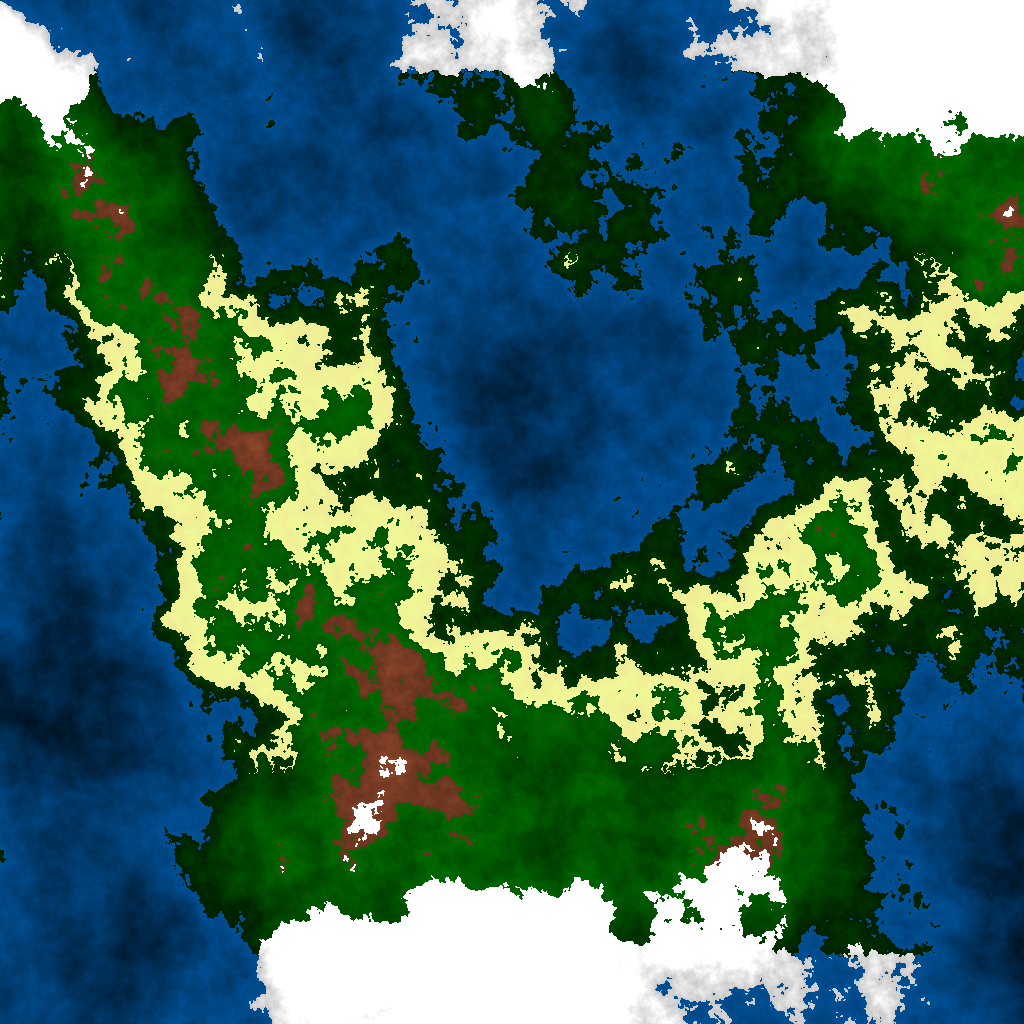
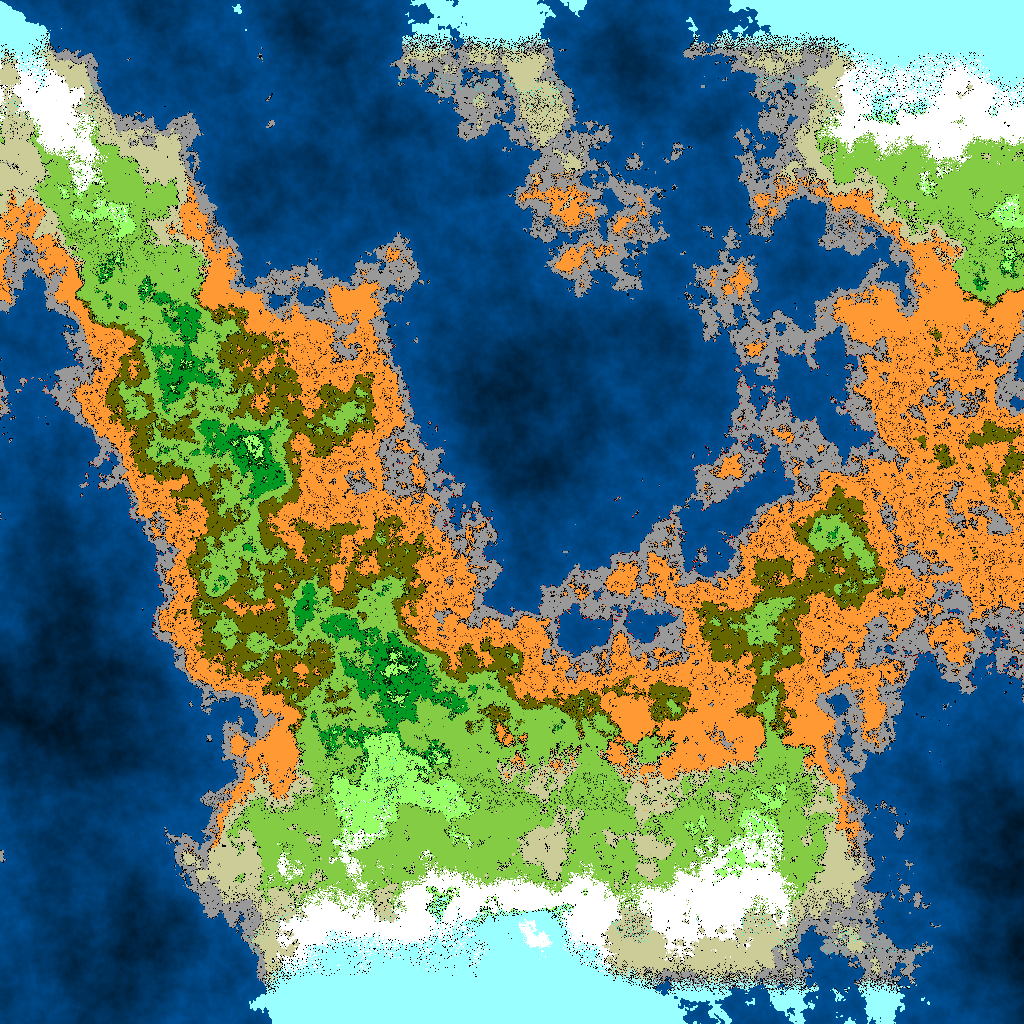
Added in Voronoi noise generation

diff --git a/src/Initialisation/Main.java b/src/Initialisation/Main.java
@@ -1,26 +1,44 @@
 package Initialisation;
 
+import java.awt.Color;
+import java.awt.image.BufferedImage;
+import java.io.File;
+
+import javax.imageio.ImageIO;
+
 import Generation.Constants;
+import Generation.OpenSimplexNoise;
+import Generation.Voronoi;
 import UserGUI.FrontEnd;
 
 public class Main implements Constants {
 	
 	public static void main(String[] args) throws Exception {
 
-		FrontEnd fEnd = new FrontEnd();
-		fEnd.init();
-		//		int width = 1024;
-//		int height = 1024;
-//		Voronoi voronoi = new Voronoi(100,(short)256);
-//		BufferedImage image = new BufferedImage(width, height, BufferedImage.TYPE_INT_RGB);
+//		FrontEnd fEnd = new FrontEnd();
+//		fEnd.init();
 //		
-//		for(int y = 0; y < height; y++){
-//			for(int x = 0; x < width; x++){
-//				double value = voronoi.noise(x, y, 0.65f);
-//				image.setRGB(x,y,new Color((int)value*255,0,0).getRGB());
-//			}
-//		}
-//		ImageIO.write(image,"png", new File("image.png"));
+		int width = 1024;
+		int height = 1024;
+		Voronoi voronoi = new Voronoi(1,(short)0);
+		
+		
+		BufferedImage image = new BufferedImage(width, height, BufferedImage.TYPE_INT_RGB);
+		
+		for(int y = 0; y < height; y++){
+			for(int x = 0; x < width; x++){
+				
+				double value = voronoi.noise(x, y, 0.1f);
+				int rgb = 0;
+				if (value < 0)
+					rgb = new Color(0, Math.abs(140 - (OCEAN_MIN + (int) Math.abs(value / 2 * 160))),
+							Math.abs(210 - (OCEAN_MIN + (int) Math.abs(value * 150)))).getRGB(); 
+				else
+					rgb = new Color(0, 10 + (int) (value / 2 * 255), 0).getRGB();
+				image.setRGB(x,y,rgb);
+			}
+		}
+		ImageIO.write(image,"png", new File("image.png"));
 		
 //		ReliefMap relief = new ReliefMap(WIDTH, HEIGHT, 1024);
 //		double[][] reliefMap = null;
@@ -49,5 +67,5 @@ public class Main implements Constants {
 //		finalMap.generateFromImage("biomemap.png");
 //		System.out.println("Biome Map generated in "+ ((System.currentTimeMillis()-time)/1000) + " seconds.");
 	}
-
+	
 }

diff --git a/src/Generation/Biome.java b/src/Generation/Biome.java
@@ -44,8 +44,6 @@ public class Biome implements Constants {
 		// Return heightmap RGB
 
 		if (height < 0.0)
-			// Uhhh.... What did I write here? It works, but I'd appreciate if
-			// you figured it out, future me!
 			return oceanBiome(height);
 		else if (height < 0.6)
 			return new Color(0, 30 + (int) (height / 2 * 255), 0).getRGB();
@@ -71,18 +69,40 @@ public class Biome implements Constants {
 
 		double height = reliefMap[x][y];
 
-		double xTemp = normalise(0, 100, tempMap[x][y]) * img.getWidth(null);
-		double yHumidity = normalise(0, 100, humidMap[x][y] - 1) * img.getHeight(null);
+		// Crunch the values of the temperature and humidity map to ensure they fit within the bounds of the lookup image
+		double xTemp = normalise(0, 100, tempMap[x][y]) * (img.getWidth(null) - 1);
+		double yHumidity = normalise(0, 100, humidMap[x][y]) * (img.getHeight(null) - 1);
 
-		// System.out.println(xTemp+","+yHumidity);
+		// Enforce a limit on the fuzzed coordinates so they don't fall out of bounds
+		int hum = (int) limit(0, img.getWidth(null) - 1, xTemp + randomX);
+		int temp = (int) limit(0, img.getHeight(null) - 1, yHumidity + randomY);
+		
+		try {
+			if (height > 0) {
+				return img.getRGB(hum, temp);
+			}
 
-		if (height > 0)
-			return img.getRGB((int) xTemp + randomX, (int) yHumidity + randomY);
-		else
-			return oceanBiome(height);
+			else
+				return oceanBiome(height);
+		} catch (Exception e) {
+			System.out.println(hum + "," + temp);
+			return 0;
+		}
 
 	}
 
+	
+	public double limit(double min, double max, double val) {
+		if (val < min)
+			return min;
+		if (val > max)
+			return max;
+		return val;
+	}
+
+	/*
+	 * This creates an ocean biome with darker coloured water for deeper levels below 0.
+	 */
 	public int oceanBiome(double height) {
 		return new Color(0, Math.abs(140 - (OCEAN_MIN + (int) Math.abs(height / 2 * 160))),
 				Math.abs(210 - (OCEAN_MIN + (int) Math.abs(height * 150)))).getRGB();

diff --git a/src/Maps/ReliefMap.java b/src/Maps/ReliefMap.java
@@ -84,20 +84,6 @@ public class ReliefMap implements Constants {
 			frequency *= lacunarity;
 			amplitude *= gain;
 		}
-
-		// float island_radius = (float) FEATURE_SIZE/4;
-		//
-		// //float xmid = (x-(WIDTH/2))/WIDTH;
-		// //float ymid = (y-(HEIGHT/2))/HEIGHT;
-		//
-		// float xn = x/ island_radius - 1;
-		// float yn = y/ island_radius - 1;
-		//
-		//
-		//
-		// float island_base = 1 - xn*xn - yn*yn;
-		//
-		// total += island_base;
 	}
 	// System.out.println(total);
 
